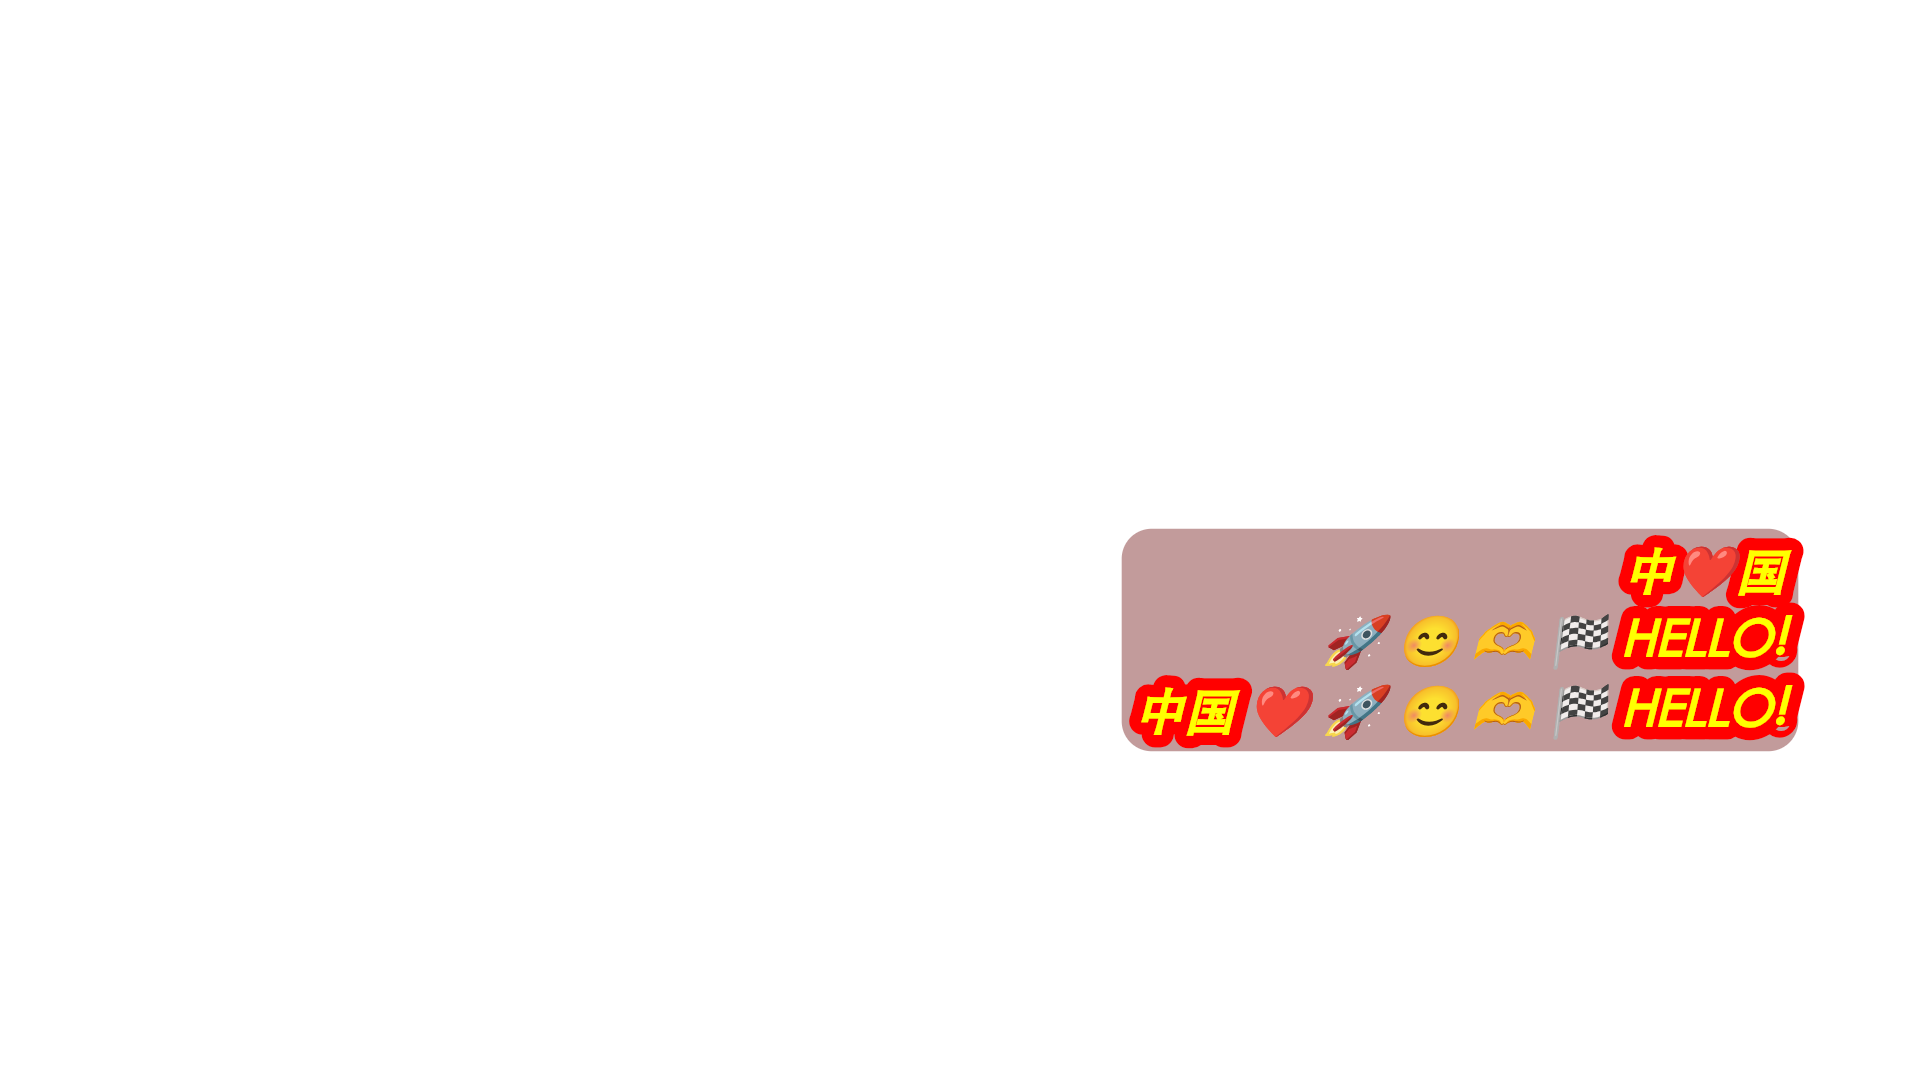
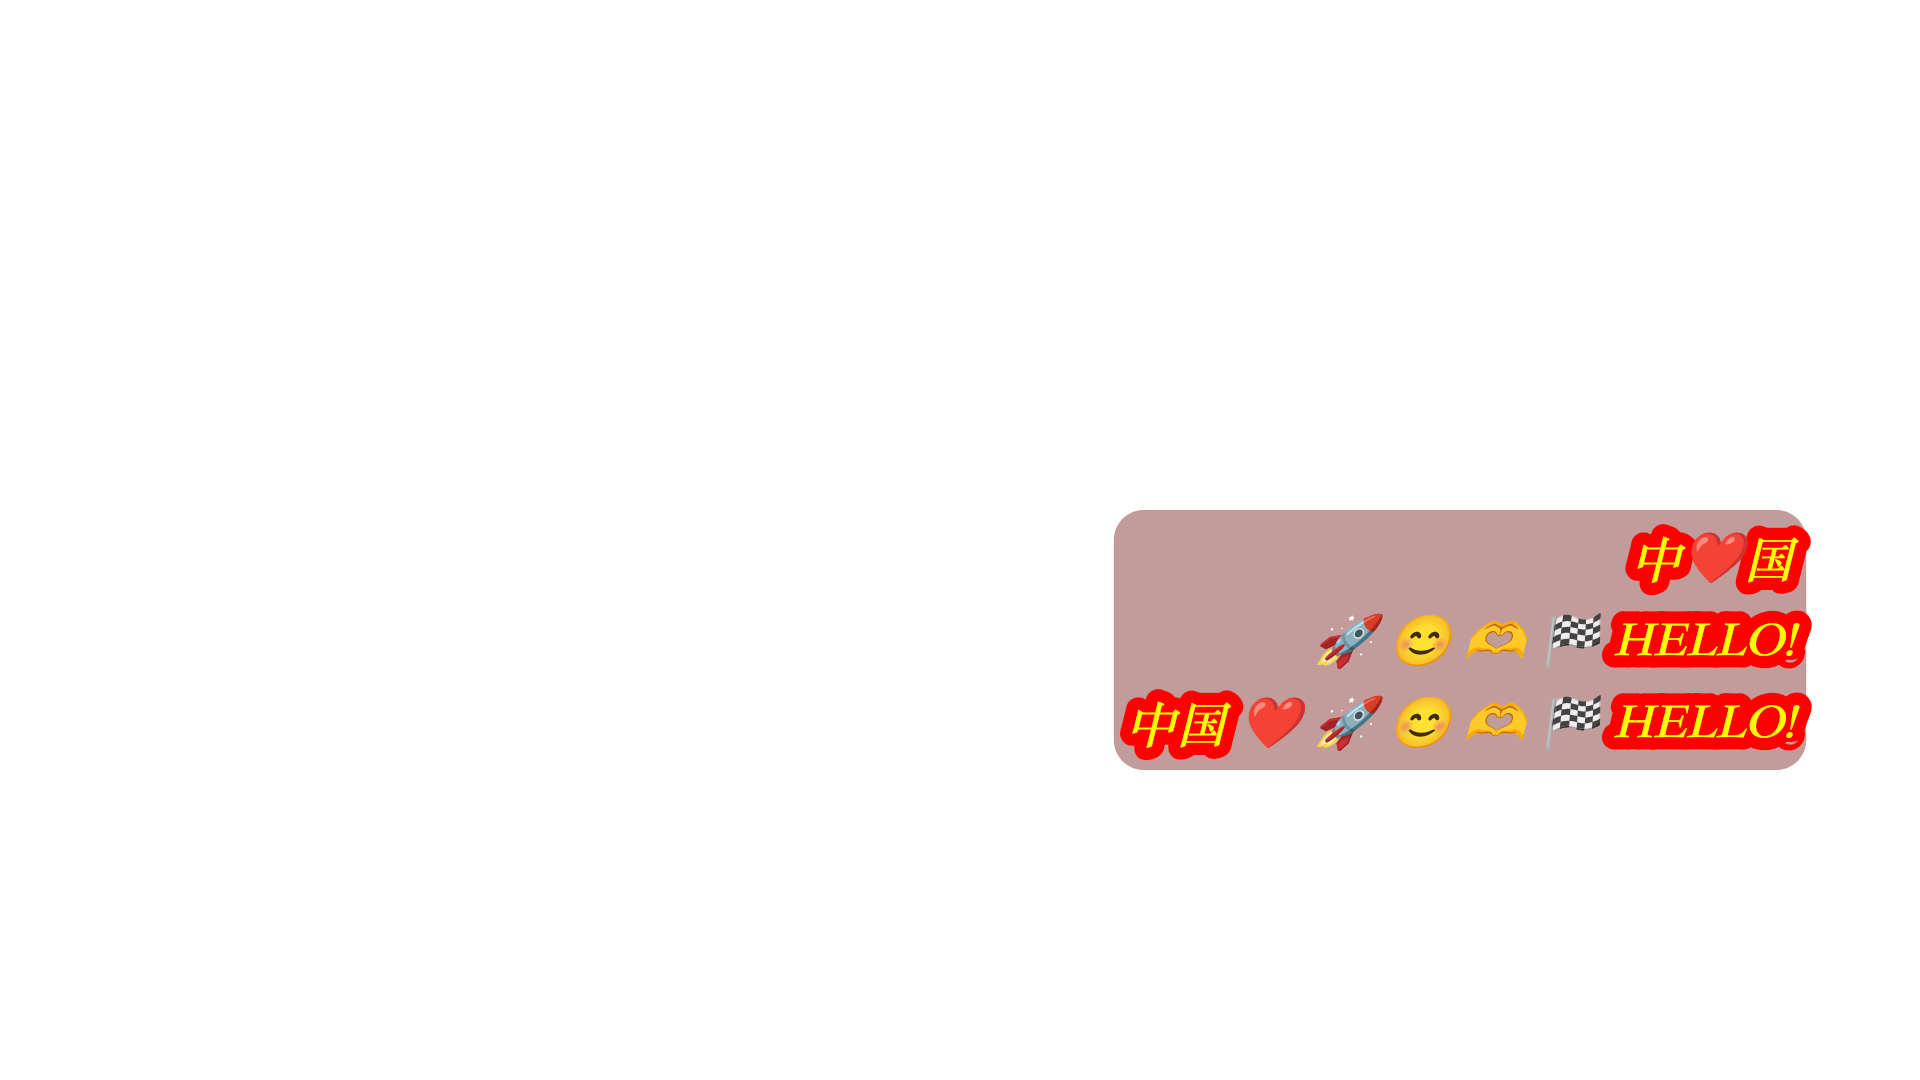
skia

Changed region(s): [[0.5625, 0.4583, 0.9688, 0.7333]]

diff --git a/src/utils/draw_caption_utils_skia.py b/src/utils/draw_caption_utils_skia.py
@@ -59,6 +59,7 @@ def _strip_style_suffix(name: str) -> str:
     parts = name.rsplit("-", 1)
     if len(parts) == 2 and parts[1] in _STYLE_WORDS:
         return parts[0]
+
     return name
 
 
@@ -128,27 +129,28 @@ def create_subtitle_png(
 
 
 if __name__ == "__main__":
-    """
-    测试 skia 单线程"""
-    from pathlib import Path
-    import time
-    t0 = time.perf_counter()
-    for i in range(100):
-        img = create_subtitle_png(
-            texts="中国\n🚀 😊 🫶 🏁 Hello!\n中国 ❤ 🚀 😊 🫶 🏁 Hello!",
-            font_name="Songti SC Regular",
-            # anchor_x=960,
-            # anchor_y=640,
-            font_size=60,
-            font_color=(255, 255, 0, 255),
-            outline_color=(0, 0, 255, 255),
-            outline_width=3,
-            background_style=1,
-            background_color=(0, 0, 0, 100),
-            # rot=5,
-            # scale=1.2,
-            letter_spacing=30,
-            save_path=f'{Path(__file__).stem}.png',
-        )
-    print(f'{time.perf_counter()-t0 = }s')
-    exit()
+    # """
+    # 测试 skia 单线程"""
+    # from pathlib import Path
+    # import time
+    # t0 = time.perf_counter()
+    # for i in range(100):
+    #     img = create_subtitle_png(
+    #         texts="中国\n🚀 😊 🫶 🏁 Hello!\n中国 ❤ 🚀 😊 🫶 🏁 Hello!",
+    #         font_name="Songti SC Regular",
+    #         # anchor_x=960,
+    #         # anchor_y=640,
+    #         font_size=60,
+    #         font_color=(255, 255, 0, 255),
+    #         outline_color=(0, 0, 255, 255),
+    #         outline_width=3,
+    #         background_style=1,
+    #         background_color=(0, 0, 0, 100),
+    #         # rot=5,
+    #         # scale=1.2,
+    #         letter_spacing=30,
+    #         save_path=f'{Path(__file__).stem}.png',
+    #     )
+    # print(f'{time.perf_counter()-t0 = }s')
+    # exit()
+    _strip_style_suffix("Songti SC Regular")

diff --git a/src/utils/skia_text_render.py b/src/utils/skia_text_render.py
@@ -19,7 +19,7 @@ import platform
 # 模块级别定义常量，避免重复构造对象
 _BASE_DIR = Path(__file__).resolve().parent
 # 字体目录固定指向项目的 src/fonts（与 utils 同级）
-_FONT_DIR = Path("/root/AIGC_video_mix_remake/src/fonts")
+_FONT_DIR = _BASE_DIR.parent/"fonts"
 
 def _create_gl_context() -> moderngl.Context | None:
     """创建可用于无头环境的 ModernGL 上下文，失败时返回 None。"""
@@ -827,7 +827,7 @@ if __name__ == "__main__":
             curve_degree=0,
             wrap_width=0,
             text_transform='uppercase',
-            font_name="Heiti TC",
+            font_name="Songti SC",
             font_size=20,
             font_color=(255, 255, 0, 255),
             letter_spacing=0,

diff --git a/src/utils/draw_caption_utils.py b/src/utils/draw_caption_utils.py
@@ -216,10 +216,10 @@ if __name__ == "__main__":
     font_path = "Songti SC Regular"
     # font_path = f"./fonts/{f2f["baotuxiaobaiti"]}"
     img = create_subtitle_png(
-        "一口沦陷！",
+        "一口沦陷！🫶☺🫶🫶☺🐬🔒🔮字幕",
         font_path,
-        anchor_x=960,
-        anchor_y=900,
+        anchor_x=300,
+        anchor_y=100,
         font_size=60,
         font_color=(255, 255, 0, 255),
         outline_color=(0, 0, 255, 255),
